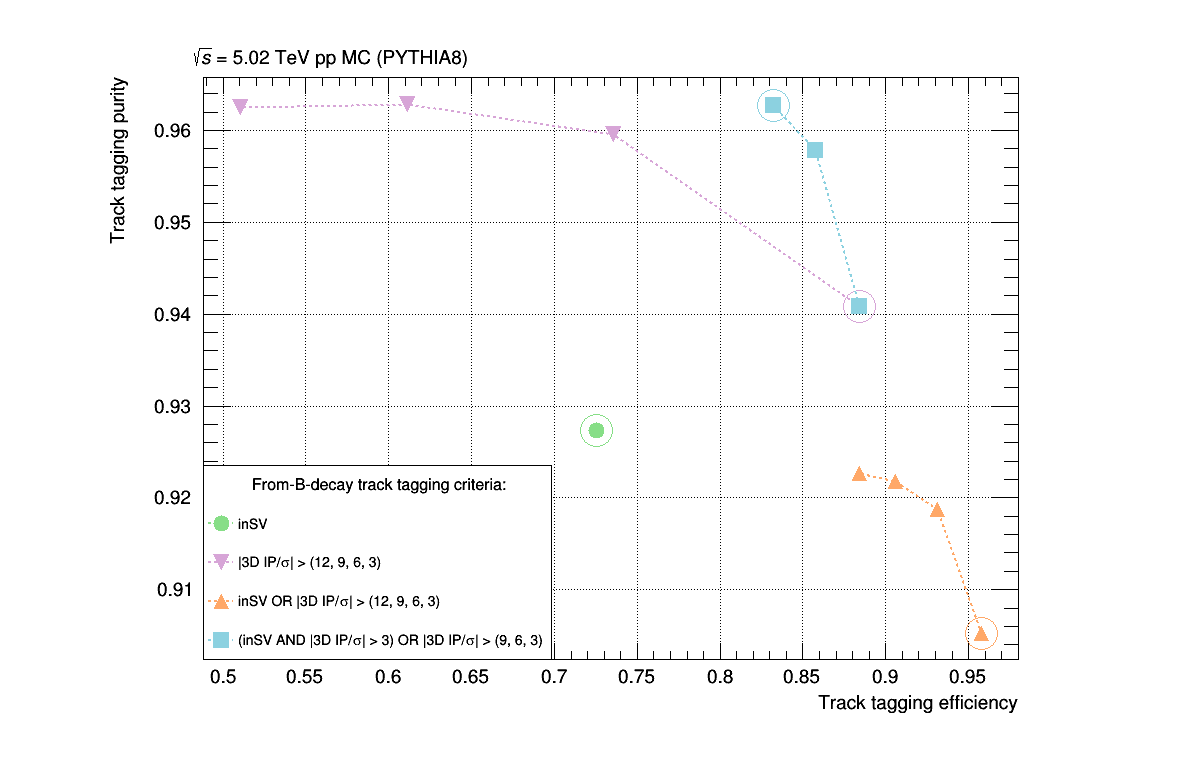
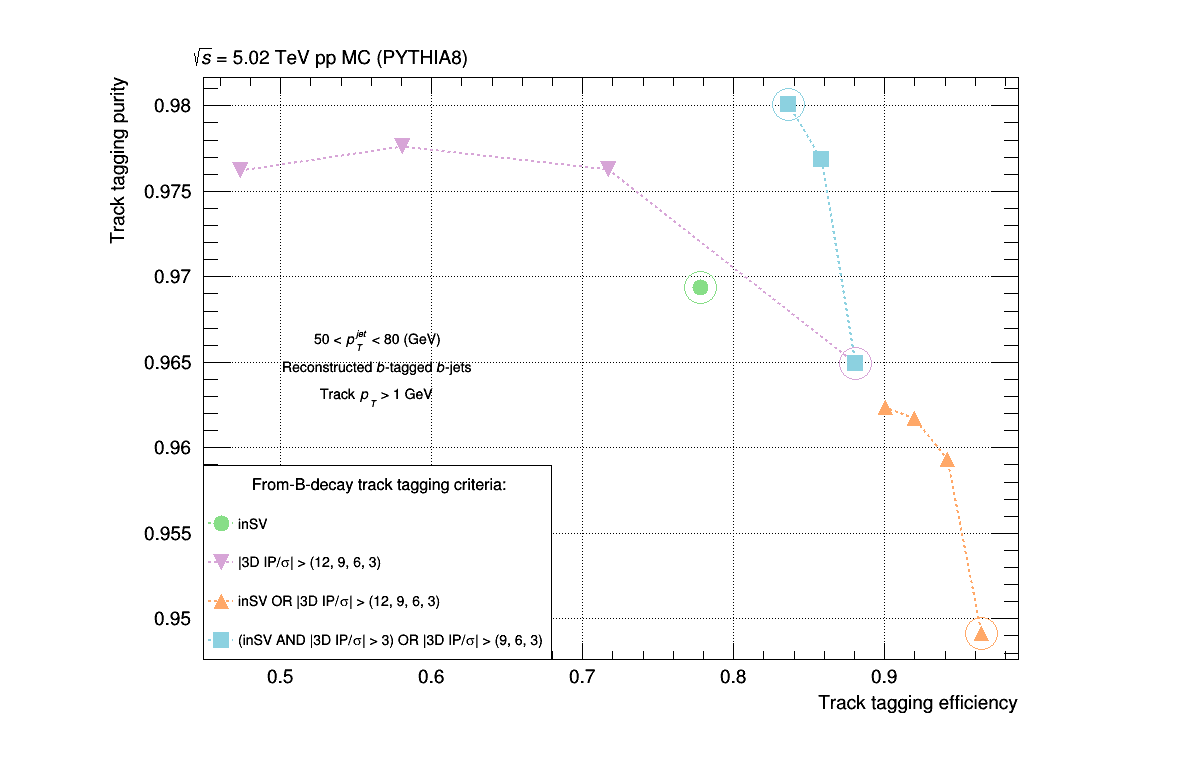
add ptrange for aggregation tagging

diff --git a/myMacros/aggregation/plot_aggregation_eff.C b/myMacros/aggregation/plot_aggregation_eff.C
@@ -3,7 +3,7 @@
 
 #include "TFile.h"
 #include "TTree.h"
-#include "TH2D.h"
+#include "TH3D.h"
 
 void plot_aggregation_eff()
 {
@@ -26,29 +26,38 @@ void plot_aggregation_eff()
     std::string foutname = outdir + fname;
     TFile *fout = new TFile(foutname.c_str(), "recreate");
 
+    Int_t ptbins = 27*2;
+    Float_t ptmin = 30.;
+    Float_t ptmax = 300.;
+
     // X = track from B (0.2) / track not from B (0.9)
     // Y = track pass selection (0.2) / track does not pass selection (0.9)
-    TH2D *heff_sel1 = new TH2D("heff_sel1", "histogram with b product tag efficiency, sel1", 2, 0, 1, 2, 0, 1);
-    TH2D *heff_sel2 = new TH2D("heff_sel2", "histogram with b product tag efficiency, sel2", 2, 0, 1, 2, 0, 1);
-    TH2D *heff_sel3 = new TH2D("heff_sel3", "histogram with b product tag efficiency, sel3", 2, 0, 1, 2, 0, 1);
-    TH2D *heff_sel4 = new TH2D("heff_sel4", "histogram with b product tag efficiency, sel4", 2, 0, 1, 2, 0, 1);
-    TH2D *heff_sel5 = new TH2D("heff_sel5", "histogram with b product tag efficiency, sel5", 2, 0, 1, 2, 0, 1);
-    TH2D *heff_sel6 = new TH2D("heff_sel6", "histogram with b product tag efficiency, sel6", 2, 0, 1, 2, 0, 1);
-    TH2D *heff_sel7 = new TH2D("heff_sel7", "histogram with b product tag efficiency, sel7", 2, 0, 1, 2, 0, 1);
-    TH2D *heff_sel8 = new TH2D("heff_sel8", "histogram with b product tag efficiency, sel8", 2, 0, 1, 2, 0, 1);
-    TH2D *heff_sel9 = new TH2D("heff_sel9", "histogram with b product tag efficiency, sel9", 2, 0, 1, 2, 0, 1);
-    TH2D *heff_sel10 = new TH2D("heff_sel10", "histogram with b product tag efficiency, sel10", 2, 0, 1, 2, 0, 1);
-    TH2D *heff_sel11 = new TH2D("heff_sel11", "histogram with b product tag efficiency, sel11", 2, 0, 1, 2, 0, 1);
-    TH2D *heff_sel12 = new TH2D("heff_sel12", "histogram with b product tag efficiency, sel12", 2, 0, 1, 2, 0, 1);
-    TH2D *heff_sel13 = new TH2D("heff_sel13", "histogram with b product tag efficiency, sel13", 2, 0, 1, 2, 0, 1);
-    TH2D *heff_sel14 = new TH2D("heff_sel14", "histogram with b product tag efficiency, sel14", 2, 0, 1, 2, 0, 1);
-    TH2D *heff_sel15 = new TH2D("heff_sel15", "histogram with b product tag efficiency, sel15", 2, 0, 1, 2, 0, 1);
-    TH2D *heff_sel16 = new TH2D("heff_sel16", "histogram with b product tag efficiency, sel16", 2, 0, 1, 2, 0, 1);
+    TH3D *heff_sel1 = new TH3D("heff_sel1", "histogram with b product tag efficiency, sel1", 2, 0, 1, 2, 0, 1, ptbins, ptmin, ptmax);
+    TH3D *heff_sel2 = new TH3D("heff_sel2", "histogram with b product tag efficiency, sel2", 2, 0, 1, 2, 0, 1, ptbins, ptmin, ptmax);
+    TH3D *heff_sel3 = new TH3D("heff_sel3", "histogram with b product tag efficiency, sel3", 2, 0, 1, 2, 0, 1, ptbins, ptmin, ptmax);
+    TH3D *heff_sel4 = new TH3D("heff_sel4", "histogram with b product tag efficiency, sel4", 2, 0, 1, 2, 0, 1, ptbins, ptmin, ptmax);
+    TH3D *heff_sel5 = new TH3D("heff_sel5", "histogram with b product tag efficiency, sel5", 2, 0, 1, 2, 0, 1, ptbins, ptmin, ptmax);
+    TH3D *heff_sel6 = new TH3D("heff_sel6", "histogram with b product tag efficiency, sel6", 2, 0, 1, 2, 0, 1, ptbins, ptmin, ptmax);
+    TH3D *heff_sel7 = new TH3D("heff_sel7", "histogram with b product tag efficiency, sel7", 2, 0, 1, 2, 0, 1, ptbins, ptmin, ptmax);
+    TH3D *heff_sel8 = new TH3D("heff_sel8", "histogram with b product tag efficiency, sel8", 2, 0, 1, 2, 0, 1, ptbins, ptmin, ptmax);
+    TH3D *heff_sel9 = new TH3D("heff_sel9", "histogram with b product tag efficiency, sel9", 2, 0, 1, 2, 0, 1, ptbins, ptmin, ptmax);
+    TH3D *heff_sel10 = new TH3D("heff_sel10", "histogram with b product tag efficiency, sel10", 2, 0, 1, 2, 0, 1, ptbins, ptmin, ptmax);
+    TH3D *heff_sel11 = new TH3D("heff_sel11", "histogram with b product tag efficiency, sel11", 2, 0, 1, 2, 0, 1, ptbins, ptmin, ptmax);
+    TH3D *heff_sel12 = new TH3D("heff_sel12", "histogram with b product tag efficiency, sel12", 2, 0, 1, 2, 0, 1, ptbins, ptmin, ptmax);
+    TH3D *heff_sel13 = new TH3D("heff_sel13", "histogram with b product tag efficiency, sel13", 2, 0, 1, 2, 0, 1, ptbins, ptmin, ptmax);
+    TH3D *heff_sel14 = new TH3D("heff_sel14", "histogram with b product tag efficiency, sel14", 2, 0, 1, 2, 0, 1, ptbins, ptmin, ptmax);
+    TH3D *heff_sel15 = new TH3D("heff_sel15", "histogram with b product tag efficiency, sel15", 2, 0, 1, 2, 0, 1, ptbins, ptmin, ptmax);
+    TH3D *heff_sel16 = new TH3D("heff_sel16", "histogram with b product tag efficiency, sel16", 2, 0, 1, 2, 0, 1, ptbins, ptmin, ptmax);
     
     //------------------ Calculate efficiency / purity ----------------------
 
     // Go over events
     for (Long64_t ient = 0; ient < ta.nentries; ient++) {
+
+        // For debugging purposes
+        //if (ient < 1887891) continue;
+        //if (ient > 1887891) break;
+
         // Show progress
         if (ient % 1000000 == 0) {
             std::cout << "i = " << ient << std::endl;
@@ -61,15 +70,22 @@ void plot_aggregation_eff()
         // Go over jets
         for (Int_t ijet = 0; ijet < ta.nref; ijet++) {
             bool passWp = (ta.jtDiscDeepFlavourB[ijet] + ta.jtDiscDeepFlavourBB[ijet] + ta.jtDiscDeepFlavourLEPB[ijet]) > 0.9;
-
-            // bjet & eta cut & pt cut
-            if ((!passWp) || (std::abs(ta.jteta[ijet]) > 2) || (ta.jtpt[ijet] < 100)) {
+            
+            // bjet & eta cut 
+            if ((!passWp) || (std::abs(ta.jteta[ijet]) > 2)) {
 			   itrackOffset += ta.nselIPtrk[ijet];
                continue;
 			}
 
+            // remove GSP
+            if (ta.jtNbHad[ijet] != 1) {
+                itrackOffset += ta.nselIPtrk[ijet];
+                continue;
+            }
+
             // Go over jet tracks
             for (Int_t itrack = 0; itrack < ta.nselIPtrk[ijet]; itrack++) {
+                
                 // Get track properties
                 Float_t ipEta = ta.ipEta[itrackOffset + itrack];
                 Float_t ipPhi = ta.ipPhi[itrackOffset + itrack];
@@ -82,6 +98,9 @@ void plot_aggregation_eff()
                 Float_t eps = 0.00001;
                 Int_t whichSV = -1;
                 Int_t iSVtrackOffset = 0;
+
+                //std::cout << "jet: " << ijet << ", nsv: " << ta.nsvtx[ijet] << std::endl;
+
                 for (Int_t isv = 0; isv < ta.nsvtx[ijet]; isv++) {
                     Float_t tracksInSV = (*ta.svtxntrk)[ijet][isv];
                     for (Int_t iSVtrack = 0; iSVtrack < tracksInSV; iSVtrack++) { 
@@ -181,22 +200,22 @@ void plot_aggregation_eff()
                 Float_t ySel16 = 0.9;
                 if (passSelection16) ySel16 = 0.2;
 
-                heff_sel1->Fill(xFromB, ySel1, weight);
-                heff_sel2->Fill(xFromB, ySel2, weight);
-                heff_sel3->Fill(xFromB, ySel3, weight);
-                heff_sel4->Fill(xFromB, ySel4, weight);
-                heff_sel5->Fill(xFromB, ySel5, weight);
-                heff_sel6->Fill(xFromB, ySel6, weight);
-                heff_sel7->Fill(xFromB, ySel7, weight);
-                heff_sel8->Fill(xFromB, ySel8, weight);
-                heff_sel9->Fill(xFromB, ySel9, weight);
-                heff_sel10->Fill(xFromB, ySel10, weight);
-                heff_sel11->Fill(xFromB, ySel11, weight);
-                heff_sel12->Fill(xFromB, ySel12, weight);
-                heff_sel13->Fill(xFromB, ySel13, weight);
-                heff_sel14->Fill(xFromB, ySel14, weight);
-                heff_sel15->Fill(xFromB, ySel15, weight);
-                heff_sel16->Fill(xFromB, ySel16, weight);
+                heff_sel1->Fill(xFromB, ySel1, ta.jtpt[ijet], weight);
+                heff_sel2->Fill(xFromB, ySel2, ta.jtpt[ijet], weight);
+                heff_sel3->Fill(xFromB, ySel3, ta.jtpt[ijet], weight);
+                heff_sel4->Fill(xFromB, ySel4, ta.jtpt[ijet], weight);
+                heff_sel5->Fill(xFromB, ySel5, ta.jtpt[ijet], weight);
+                heff_sel6->Fill(xFromB, ySel6, ta.jtpt[ijet], weight);
+                heff_sel7->Fill(xFromB, ySel7, ta.jtpt[ijet], weight);
+                heff_sel8->Fill(xFromB, ySel8, ta.jtpt[ijet], weight);
+                heff_sel9->Fill(xFromB, ySel9, ta.jtpt[ijet], weight);
+                heff_sel10->Fill(xFromB, ySel10, ta.jtpt[ijet], weight);
+                heff_sel11->Fill(xFromB, ySel11, ta.jtpt[ijet], weight);
+                heff_sel12->Fill(xFromB, ySel12, ta.jtpt[ijet], weight);
+                heff_sel13->Fill(xFromB, ySel13, ta.jtpt[ijet], weight);
+                heff_sel14->Fill(xFromB, ySel14, ta.jtpt[ijet], weight);
+                heff_sel15->Fill(xFromB, ySel15, ta.jtpt[ijet], weight);
+                heff_sel16->Fill(xFromB, ySel16, ta.jtpt[ijet], weight);
 
             } // jet track loop
             itrackOffset += ta.nselIPtrk[ijet];

diff --git a/myMacros/aggregation/TreeAnalyzer.h b/myMacros/aggregation/TreeAnalyzer.h
@@ -19,48 +19,48 @@ class TreeAnalyzer
 
         // t tree leaves
         Int_t           nref;
-        Float_t         rawpt[8];
-        Float_t         jtpt[8];
-        Float_t         jteta[8];
-        Float_t         jtphi[8];
-        Float_t         jtHadFlav[8];
-        Float_t         jtParFlav[8];
-        Int_t           jtNbHad[8];
-        Int_t           jtNcHad[8];
-        Int_t           jtNbPar[8];
-        Int_t           jtNcPar[8];
-        Bool_t          jtHasGSPB[8];
-        Bool_t          jtHasGSPC[8];
-        Bool_t          jtIsHardest[8];
-        Float_t         sjt1E[8];
-        Float_t         sjt1Pt[8];
-        Float_t         sjt1Eta[8];
-        Float_t         sjt1Phi[8];
-        Float_t         sjt1HadFlav[8];
-        Float_t         sjt1ParFlav[8];
-        Float_t         sjt2E[8];
-        Float_t         sjt2Pt[8];
-        Float_t         sjt2Eta[8];
-        Float_t         sjt2Phi[8];
-        Float_t         sjt2HadFlav[8];
-        Float_t         sjt2ParFlav[8];
-        Float_t         rsjt1E[8];
-        Float_t         rsjt1Pt[8];
-        Float_t         rsjt1Eta[8];
-        Float_t         rsjt1Phi[8];
-        Float_t         rsjt2E[8];
-        Float_t         rsjt2Pt[8];
-        Float_t         rsjt2Eta[8];
-        Float_t         rsjt2Phi[8];
-        Float_t         jtDiscCSVV2[8];
-        Float_t         jtDiscDeepCSVB[8];
-        Float_t         jtDiscDeepCSVBB[8];
-        Float_t         jtDiscDeepCSVC[8];
-        Float_t         jtDiscDeepFlavourB[8];
-        Float_t         jtDiscDeepFlavourBB[8];
-        Float_t         jtDiscDeepFlavourLEPB[8];
-        Float_t         jtDiscDeepFlavourC[8];
-        Float_t         jtDiscProb[8];
+        Float_t         rawpt[30];
+        Float_t         jtpt[30];
+        Float_t         jteta[30];
+        Float_t         jtphi[30];
+        Float_t         jtHadFlav[30];
+        Float_t         jtParFlav[30];
+        Int_t           jtNbHad[30];
+        Int_t           jtNcHad[30];
+        Int_t           jtNbPar[30];
+        Int_t           jtNcPar[30];
+        Bool_t          jtHasGSPB[30];
+        Bool_t          jtHasGSPC[30];
+        Bool_t          jtIsHardest[30];
+        Float_t         sjt1E[30];
+        Float_t         sjt1Pt[30];
+        Float_t         sjt1Eta[30];
+        Float_t         sjt1Phi[30];
+        Float_t         sjt1HadFlav[30];
+        Float_t         sjt1ParFlav[30];
+        Float_t         sjt2E[30];
+        Float_t         sjt2Pt[30];
+        Float_t         sjt2Eta[30];
+        Float_t         sjt2Phi[30];
+        Float_t         sjt2HadFlav[30];
+        Float_t         sjt2ParFlav[30];
+        Float_t         rsjt1E[30];
+        Float_t         rsjt1Pt[30];
+        Float_t         rsjt1Eta[30];
+        Float_t         rsjt1Phi[30];
+        Float_t         rsjt2E[30];
+        Float_t         rsjt2Pt[30];
+        Float_t         rsjt2Eta[30];
+        Float_t         rsjt2Phi[30];
+        Float_t         jtDiscCSVV2[30];
+        Float_t         jtDiscDeepCSVB[30];
+        Float_t         jtDiscDeepCSVBB[30];
+        Float_t         jtDiscDeepCSVC[30];
+        Float_t         jtDiscDeepFlavourB[30];
+        Float_t         jtDiscDeepFlavourBB[30];
+        Float_t         jtDiscDeepFlavourLEPB[30];
+        Float_t         jtDiscDeepFlavourC[30];
+        Float_t         jtDiscProb[30];
 
 		vector<vector<int> > *svtxntrk = 0;
         vector<vector<float> > *svtxdls = nullptr;
@@ -72,9 +72,9 @@ class TreeAnalyzer
         vector<vector<float> > *svtxTrEta = nullptr;
         vector<vector<float> > *svtxTrPhi = nullptr;
 
-        Int_t           nsvtx[8];
+        Int_t           nsvtx[30];
 	
-        Int_t           nselIPtrk[8];
+        Int_t           nselIPtrk[30];
         Int_t           nIP;
         Float_t         ipPt[64];
         Float_t         ipEta[64];
@@ -87,42 +87,42 @@ class TreeAnalyzer
         Float_t         ipEtaMatch[100];
         Float_t         ipPhiMatch[100];
 
-        Float_t         refpt[8];
-        Float_t         refeta[8];
-        Float_t         refphi[8];
-        Float_t         refdphijt[8];
-        Float_t         refdrjt[8];
-        Float_t         refparton_pt[8];
-        Int_t           refparton_flavor[8];
-        Bool_t          refIsHardest[8];
+        Float_t         refpt[30];
+        Float_t         refeta[30];
+        Float_t         refphi[30];
+        Float_t         refdphijt[30];
+        Float_t         refdrjt[30];
+        Float_t         refparton_pt[30];
+        Int_t           refparton_flavor[30];
+        Bool_t          refIsHardest[30];
         Int_t           ngen;
-        Int_t           genmatchindex[8];
-        Float_t         genpt[8];
-        Float_t         geneta[8];
-        Float_t         genphi[8];
+        Int_t           genmatchindex[30];
+        Float_t         genpt[30];
+        Float_t         geneta[30];
+        Float_t         genphi[30];
         Int_t           npar;
-        Float_t         parpt[9];
-        Float_t         pareta[9];
-        Float_t         parphi[9];
-        Int_t           parNb[9];
-        Int_t           parNc[9];
-        Bool_t          parHasGSPB[9];
-        Bool_t          parHasGSPC[9];
-        Bool_t          genIsHardest[8];
-        Float_t         gsjt1E[8];
-        Float_t         gsjt1Pt[8];
-        Float_t         gsjt1Eta[8];
-        Float_t         gsjt1Phi[8];
-        Float_t         gsjt2Pt[8];
-        Float_t         gsjt2Eta[8];
-        Float_t         gsjt2Phi[8];
-        Float_t         psjt1E[9];
-        Float_t         psjt1Pt[9];
-        Float_t         psjt1Eta[9];
-        Float_t         psjt1Phi[9];
-        Float_t         psjt2Pt[9];
-        Float_t         psjt2Eta[9];
-        Float_t         psjt2Phi[9];
+        Float_t         parpt[30];
+        Float_t         pareta[30];
+        Float_t         parphi[30];
+        Int_t           parNb[30];
+        Int_t           parNc[30];
+        Bool_t          parHasGSPB[30];
+        Bool_t          parHasGSPC[30];
+        Bool_t          genIsHardest[30];
+        Float_t         gsjt1E[30];
+        Float_t         gsjt1Pt[30];
+        Float_t         gsjt1Eta[30];
+        Float_t         gsjt1Phi[30];
+        Float_t         gsjt2Pt[30];
+        Float_t         gsjt2Eta[30];
+        Float_t         gsjt2Phi[30];
+        Float_t         psjt1E[30];
+        Float_t         psjt1Pt[30];
+        Float_t         psjt1Eta[30];
+        Float_t         psjt1Phi[30];
+        Float_t         psjt2Pt[30];
+        Float_t         psjt2Eta[30];
+        Float_t         psjt2Phi[30];
 
         // HiTree tree leaves
         Float_t         weight; 

diff --git a/myMacros/aggregation/draw_aggregation_eff.C b/myMacros/aggregation/draw_aggregation_eff.C
@@ -15,6 +15,9 @@ void draw_aggregation_eff()
     std::string indir = "/home/llr/cms/kalipoliti/rootFiles/";
 	std::string fname = "aggregation_eff.root";
 
+    Float_t ptmin = 50.;
+    Float_t ptmax = 80.;
+
 
     // ------------------- efficiency VS mistag rate ------------------------
 
@@ -114,6 +117,16 @@ void draw_aggregation_eff()
     c->SetGrid(1);
     mg_pur->Draw("pla");
 	leg_pur->Draw();
+
+    TPaveText *info = new TPaveText(0.17, 0.47, 0.46, 0.58, "ndc");
+    info->SetBorderSize(0);
+    info->SetFillColor(0);
+    info->SetFillStyle(0);
+    info->SetTextSize(15);
+    info->AddText(Form("%.0f < #it{p_{T}^{jet}} < %0.f (GeV)", ptmin, ptmax));
+    info->AddText("Reconstructed #it{b}-tagged #it{b}-jets");
+    info->AddText("Track #it{p_{T}} > 1 GeV");
+    info->Draw();
 
     TPaveText *mcinfo = new TPaveText(0.15, 0.9, 0.4, 0.95, "ndc");
     mcinfo->SetBorderSize(0);

diff --git a/myMacros/aggregation/utils.h b/myMacros/aggregation/utils.h
@@ -41,7 +41,13 @@ TGraph * make_graph_eff_pur(std::string fname, std::vector<Int_t> v_selN, Style_
     TGraph *gr = new TGraph();
  
     for (Int_t selN : v_selN) {
-        TH1D *h = (TH1D *) fin->Get(Form("heff_sel%d", selN));
+        TH3D *h3d = (TH3D *) fin->Get(Form("heff_sel%d", selN));
+        // Choose pt range
+        Float_t ptmin = 50.;
+        Float_t ptmax = 80.;
+        h3d->GetZaxis()->SetRangeUser(ptmin, ptmax);
+
+        TH2D *h = (TH2D *) h3d->Project3D("yx");
 
         Float_t totalFromB = h->GetBinContent(1, 1) + h->GetBinContent(1, 2);
         Float_t totalNotFromB = h->GetBinContent(2, 1) + h->GetBinContent(2, 2);
